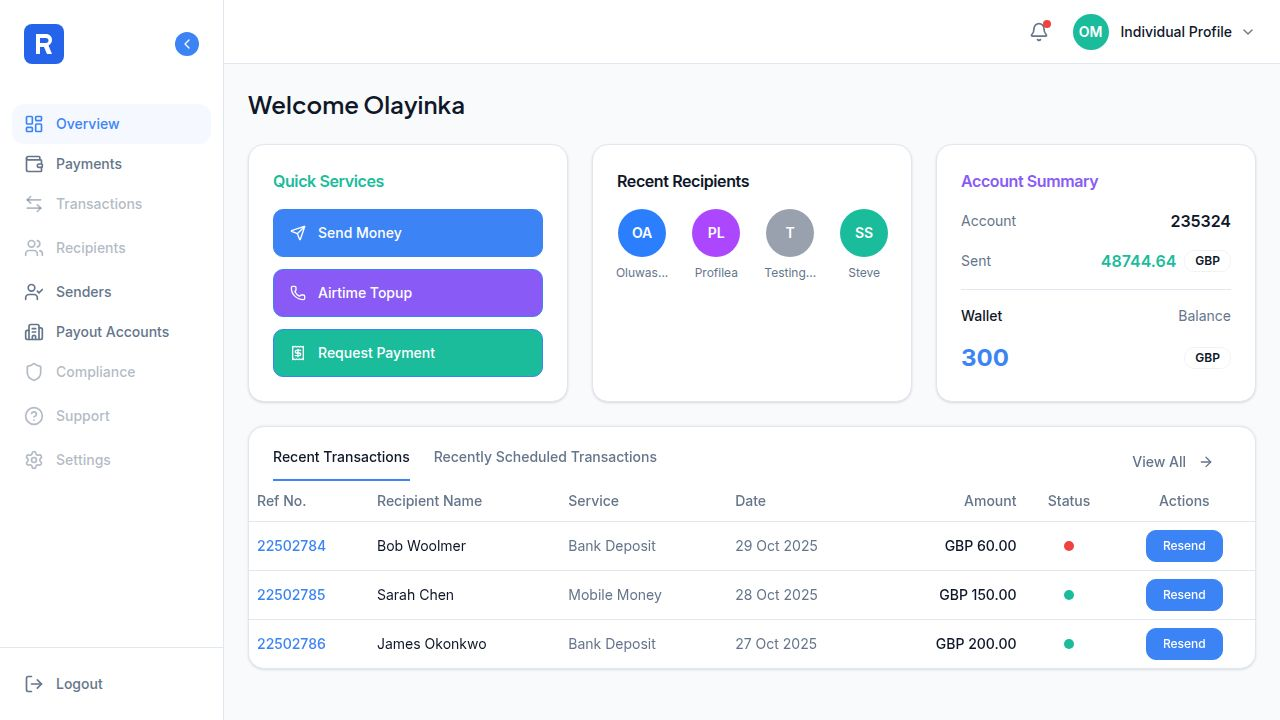
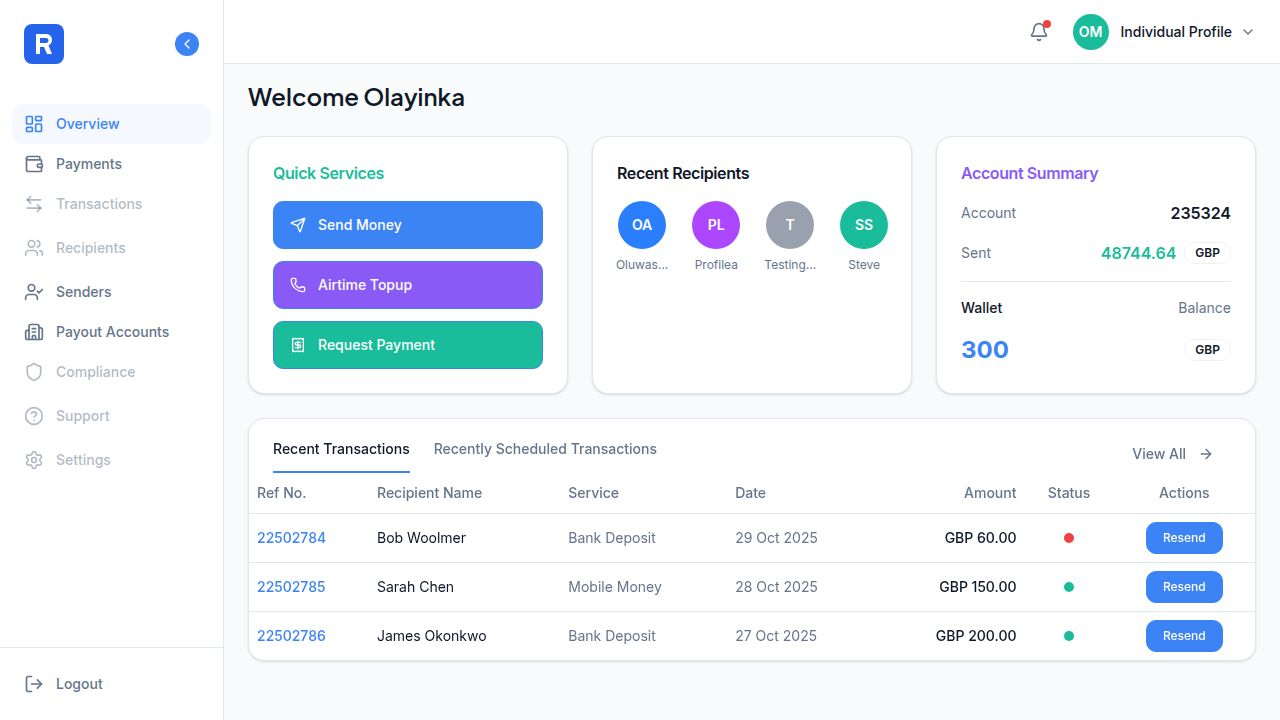
Ensure page content displays correctly above the header
Adjust header z-index and main content padding to prevent elements from hiding.

Replit-Commit-Author: Agent
Replit-Commit-Session-Id: 9719b003-d8e3-4928-8aa4-fa8cbcfd6956
Replit-Commit-Checkpoint-Type: full_checkpoint
Replit-Commit-Event-Id: f45a47fb-fb53-4785-b3de-0dae65648f9a
Replit-Commit-Screenshot-Url: https://storage.googleapis.com/screenshot-production-us-central1/fa556826-063a-438b-9ac3-8aaad8c052e2/9719b003-d8e3-4928-8aa4-fa8cbcfd6956/sQ36QaV
Replit-Helium-Checkpoint-Created: true

diff --git a/client/src/components/layout/Header.tsx b/client/src/components/layout/Header.tsx
@@ -11,7 +11,7 @@ export function Header({ userName }: HeaderProps) {
       initial={{ y: -10, opacity: 0 }}
       animate={{ y: 0, opacity: 1 }}
       transition={{ duration: 0.3, delay: 0.1 }}
-      className="h-16 bg-white border-b border-border flex items-center justify-end px-6 sticky top-0 z-10"
+      className="h-16 bg-white border-b border-border flex items-center justify-end px-6 sticky top-0 z-40"
     >
       <div className="flex items-center gap-4">
         <button 

diff --git a/client/src/components/layout/DashboardLayout.tsx b/client/src/components/layout/DashboardLayout.tsx
@@ -12,7 +12,7 @@ export function DashboardLayout({ children }: DashboardLayoutProps) {
       <Sidebar />
       <div className="ml-56">
         <Header userName="Olayinka" />
-        <main className="p-6">
+        <main className="p-6 pt-4">
           {children}
         </main>
       </div>
